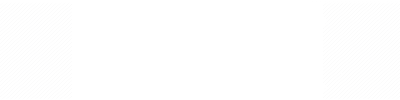
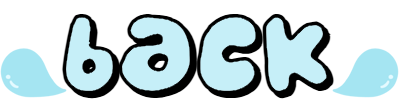
menu new labels and new click sound

diff --git a/globalGameJam/src/main/java/it/gamejam/truncate/bubblenap/ui/MenuPanel.java b/globalGameJam/src/main/java/it/gamejam/truncate/bubblenap/ui/MenuPanel.java
@@ -49,7 +49,7 @@ public class MenuPanel extends JPanel {
 				if ((e.getX() >= EXIT_X) && (e.getX() <= (EXIT_X + ImageLoader.getImageExit().getWidth(null)))
 						&& (e.getY() >= EXIT_Y)
 						&& (e.getY() <= (EXIT_Y + ImageLoader.getImageExit().getHeight(null)))) {
-					SimpleAudioPlayer.playSyncSoundOnce(SoundProvider.getMorseMenu(), 0f);
+					SimpleAudioPlayer.playSyncSoundOnce(SoundProvider.getBubbleMenuClick(), 0f);
 
 					System.exit(0);
 				}
@@ -57,7 +57,7 @@ public class MenuPanel extends JPanel {
 						&& (e.getX() <= (PLAY_BUTTON_X + ImageLoader.getImagePlay().getWidth(null)))
 						&& (e.getY() >= PLAY_BUTTON_Y)
 						&& (e.getY() <= (PLAY_BUTTON_Y + ImageLoader.getImagePlay().getHeight(null)))) {
-					SimpleAudioPlayer.playSyncSoundOnce(SoundProvider.getMorseMenu(), 0f);
+					SimpleAudioPlayer.playSyncSoundOnce(SoundProvider.getBubbleMenuClick(), 0f);
 
 					frame.getBackgroundMusic().stop();
 					frame.drawPanel(EnumPanel.GAME_PANEL);
@@ -65,7 +65,7 @@ public class MenuPanel extends JPanel {
 				if ((e.getX() >= CREDITS_X) && (e.getX() <= (CREDITS_X + ImageLoader.getImagePlay().getWidth(null)))
 						&& (e.getY() >= CREDITS_Y)
 						&& (e.getY() <= (CREDITS_Y + ImageLoader.getImagePlay().getHeight(null)))) {
-					SimpleAudioPlayer.playSyncSoundOnce(SoundProvider.getMorseMenu(), 0f);
+					SimpleAudioPlayer.playSyncSoundOnce(SoundProvider.getBubbleMenuClick(), 0f);
 					frame.drawPanel(EnumPanel.CREDITS_MENU_PANEL);
 				}
 
@@ -131,7 +131,7 @@ public class MenuPanel extends JPanel {
 		g.drawImage(playButtonImage, PLAY_BUTTON_X, PLAY_BUTTON_Y, 330, 83, null);
 		g.drawImage(ExitButtonImage, EXIT_X, EXIT_Y, 330, 83, null);
 
-		g.drawImage(titleImage, 0, 0, titleImage.getWidth(this), this.getHeight() - 70, null);
+		g.drawImage(titleImage, 0, 0, titleImage.getWidth(this), this.getHeight() - 10, null);
 
 	}
 }

diff --git a/globalGameJam/src/main/java/it/gamejam/truncate/bubblenap/ui/audio/SoundProvider.java b/globalGameJam/src/main/java/it/gamejam/truncate/bubblenap/ui/audio/SoundProvider.java
@@ -8,7 +8,7 @@ import java.util.List;
 
 public class SoundProvider {
 	private static byte[] menu;
-	private static byte[] morseMenu;
+	private static byte[] bubbleMenuClick;
 
 	static {
 		try {
@@ -17,9 +17,9 @@ public class SoundProvider {
 				menu = new byte[fis.available()];
 				fis.read(menu);
 			}
-			try (FileInputStream fis = new FileInputStream("resources/audio/MorseMenu.wav")) {
-				morseMenu = new byte[fis.available()];
-				fis.read(morseMenu);
+			try (FileInputStream fis = new FileInputStream("resources/audio/bubbleMenuClick.wav")) {
+				bubbleMenuClick = new byte[fis.available()];
+				fis.read(bubbleMenuClick);
 			}
 
 		} catch (final Exception e) {
@@ -28,12 +28,12 @@ public class SoundProvider {
 		}
 	}
 
-	public static byte[] getMenu() {
-		return menu;
+	public static byte[] getBubbleMenuClick() {
+		return bubbleMenuClick;
 	}
 
-	public static byte[] getMorseMenu() {
-		return morseMenu;
+	public static byte[] getMenu() {
+		return menu;
 	}
 
 	public static List<byte[]> getSamples(final File dir) throws IOException {

diff --git a/globalGameJam/src/main/java/it/gamejam/truncate/bubblenap/ui/CreditsMenuPanel.java b/globalGameJam/src/main/java/it/gamejam/truncate/bubblenap/ui/CreditsMenuPanel.java
@@ -72,7 +72,7 @@ public class CreditsMenuPanel extends JPanel {
 				if ((e.getX() >= BACK_X) && (e.getX() <= (BACK_X + ImageLoader.getImageBack().getWidth(null)))
 						&& (e.getY() >= BACK_Y)
 						&& (e.getY() <= (BACK_Y + ImageLoader.getImageBack().getHeight(null)))) {
-					SimpleAudioPlayer.playSyncSoundOnce(SoundProvider.getMorseMenu(), 0f);
+					SimpleAudioPlayer.playSyncSoundOnce(SoundProvider.getBubbleMenuClick(), 0f);
 
 					frame.drawPanel(EnumPanel.MENU_PANEL);
 				}
